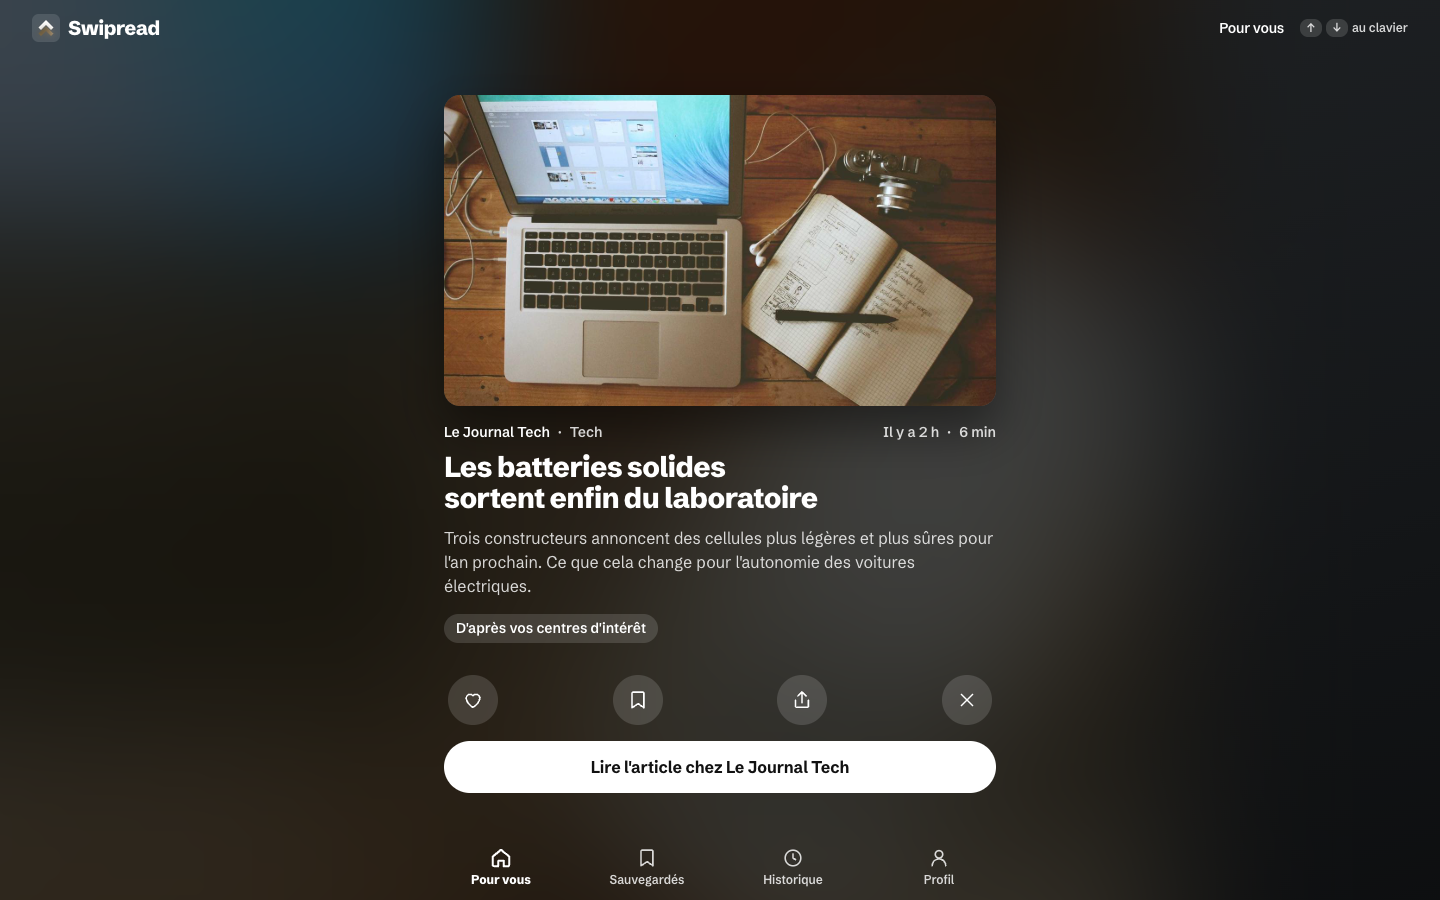
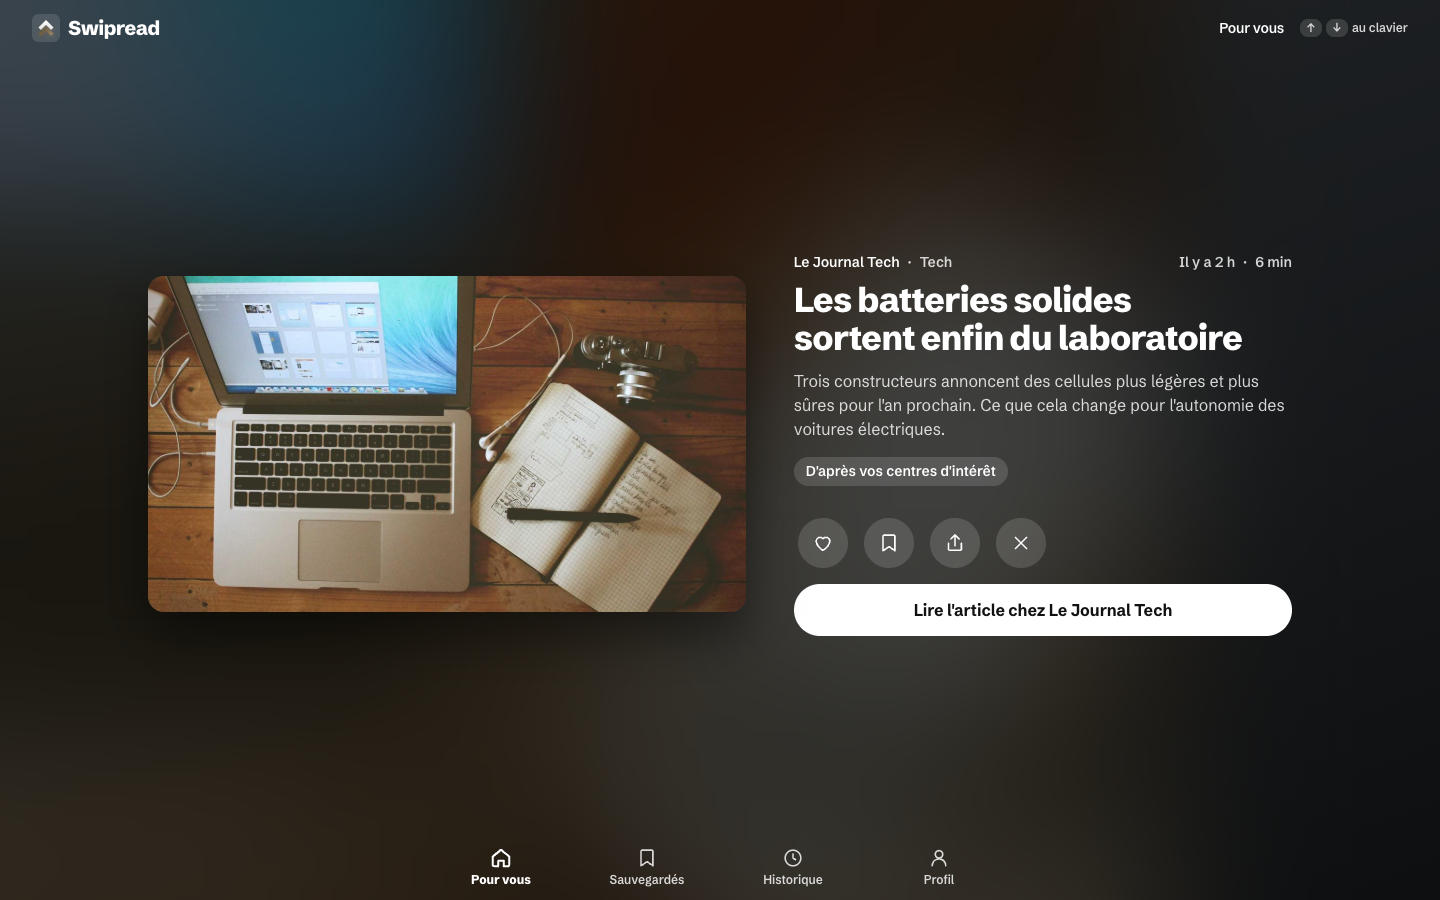
docs: two-column feed on wide screens, new screenshots

diff --git a/docs/features/feed.md b/docs/features/feed.md
@@ -17,7 +17,7 @@ FeedPage
 ```
 
 - **`AmbientField`**: one layer per article for the current card and its neighbours (so a swipe crossfades, `--duration-ambient`, instead of popping): the image with `--ambient-filter`, or the topic's gradient (`topicField.ts`, `--topic-<slug>`, neutral for other topics) when there is no image or it failed. A neutral base layer and the `--ambient-veil` sit under and over them; the veil caps the contrast whatever the image.
-- **`ArticleCard`**: a reading column (max `--feed-column-width`): the 16:9 photo (eager for the first card, lazy afterwards, `referrerPolicy="no-referrer"`), which settles from 96 % when its card becomes current; a meta line in two groups that wrap as wholes (source · topic, then relative date · reading time, the latter left out when `wordCountFromSummary` is true); the title (never rewritten, scaled with the screen's height); the summary; a chip saying why the article is here (`reasonLabel`); the actions; and « Lire l'article chez <source> », which opens the source's page in a new tab. Without an image (or when it fails to load, tracked in `FeedPage`), the photo slot disappears and the title grows. On short screens the photo gives way first (cropped, never squashed), then the summary.
+- **`ArticleCard`**: a reading column (max `--feed-column-width`): the 16:9 photo (eager for the first card, lazy afterwards, `referrerPolicy="no-referrer"`), which settles from 96 % when its card becomes current; a meta line in two groups that wrap as wholes (source · topic, then relative date · reading time, the latter left out when `wordCountFromSummary` is true); the title (never rewritten, scaled with the screen's height); the summary; a chip saying why the article is here (`reasonLabel`); the actions; and « Lire l'article chez <source> », which opens the source's page in a new tab. Without an image (or when it fails to load, tracked in `FeedPage`), the photo slot disappears and the title grows. On short screens the photo gives way first (cropped, never squashed), then the summary. From 1024 px wide on a landscape screen (aspect ratio ≥ 5:4) the card is a two-column grid (photo left at 1.2 fr, text right at 1 fr, centred vertically, within `--feed-wide-width`, 1240 px; the actions grouped at the start) with a larger title (`clamp(1.75rem, min(2.4vw, 4.6dvh), 2.25rem)`); a card without an image keeps the single column.
 - **`ArticleActions`**: four round `IconButton`s (`variant="ambient"`), named by `aria-label` and `title`: « J'aime » (`aria-pressed`), « Sauvegarder » (`aria-pressed`), « Partager », « Pas intéressé ». A pressed toggle turns to ink.
 - **Reason chip** (`reasonLabel.ts`), from the item's `reason`: `similar` « Proche de vos lectures », `onboarding` and `fallback` (both drawn from the reader's topics) « D'après vos centres d'intérêt », `explore` « Pour découvrir autre chose »; any other value shows no chip.
 - Each `article` is focusable (`tabIndex=-1`), labelled by its title, and carries `aria-posinset` / `aria-setsize` (`-1` while more pages may come).

diff --git a/docs/design.md b/docs/design.md
@@ -53,7 +53,7 @@ Titles and summaries are always the publisher's, never shortened or rewritten.
 
 From top to bottom on a phone: a top bar with the symbol, the name and « Pour vous »; the photo; source, topic and reading time; the title; the summary (three lines at most); why the article is recommended (« Proche de vos lectures », « D'après vos centres d'intérêt », « Pour découvrir autre chose »); four round actions (J'aime, Sauvegarder, Partager, Pas intéressé); a full-width « Lire l'article chez [source] » pill; the tab bar.
 
-On a computer the ambiance fills the window, the reading column is centred (about 600 px) and the navigation stays at the bottom, as on a phone.
+On a computer the ambiance fills the window and the navigation stays at the bottom, as on a phone. From 1024 px wide, on a landscape screen, the article takes two columns, so a horizontal screen is used in its width: the 16:9 photo on the left, the text on the right (source, a larger title bounded by the window's height, summary, reason, actions, reading pill), the pair centred vertically within 1240 px. An article without an image keeps the single centred column.
 
 **Without an image**, the field is a two-colour gradient of the article's topic (`--topic-<slug>`); the photo slot disappears, the title moves up and grows.
 

diff --git a/docs/reference/design-tokens.md b/docs/reference/design-tokens.md
@@ -56,6 +56,7 @@ The dark values apply under `@media (prefers-color-scheme: dark)`; there is no m
 | `--tabbar-height` | `64px` | Bottom tab bar (every screen size), plus the safe area |
 | `--feed-topbar-height` | `56px` | The feed's top bar (symbol, « Pour vous ») |
 | `--feed-column-width` | `600px` | Width of the feed's reading column |
+| `--feed-wide-width` | `1240px` | Width of the two-column feed on wide landscape screens |
 
 Breakpoints are plain media queries (not tokens): `900px` (auth pages stack), `768px` (tighter page padding, forms go single-column, no keyboard hint in the feed), `600px` (article rows use a smaller thumbnail), `480px` (dialog buttons stack).
 
